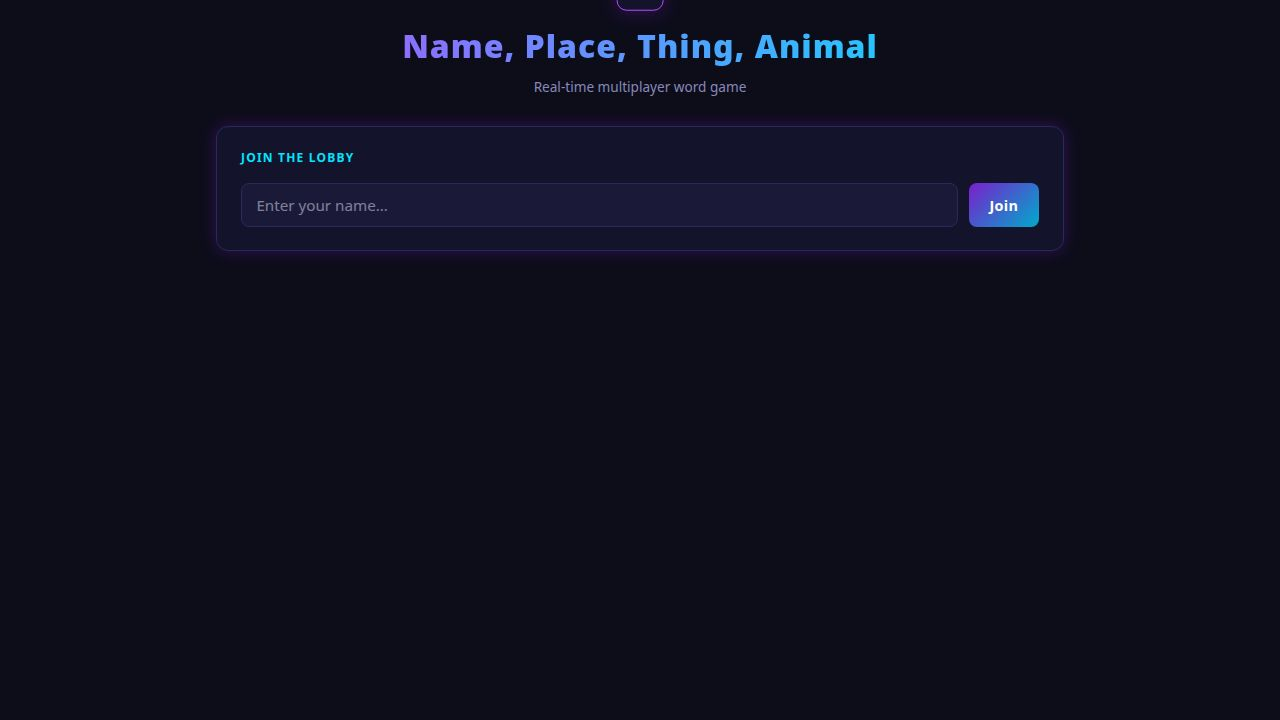
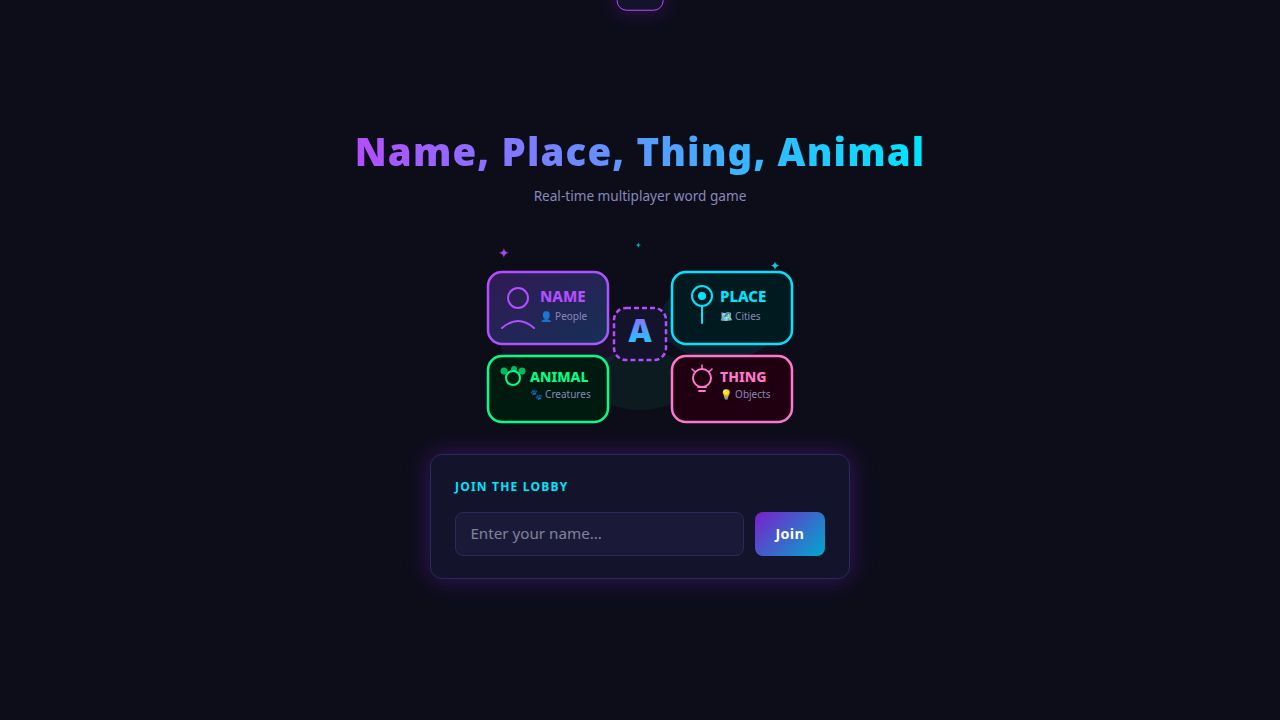
Center game title and join screen with a new cartoon graphic
Restructure the join screen layout to vertically center the title, subtitle, and join card, and integrate a new cartoon SVG illustration.

Replit-Commit-Author: Agent
Replit-Commit-Session-Id: f1d42a7c-d29c-435c-8295-85e177973ce0
Replit-Commit-Checkpoint-Type: full_checkpoint
Replit-Commit-Event-Id: 2e5b79c0-e098-4b18-bdde-9102e4d49beb
Replit-Commit-Screenshot-Url: https://storage.googleapis.com/screenshot-production-us-central1/2193b570-b750-4597-9768-329b22a8e16d/f1d42a7c-d29c-435c-8295-85e177973ce0/uqnpOFI
Replit-Helium-Checkpoint-Created: true

Changed region(s): [[0.1875, 0.0306, 0.8125, 0.825]]

diff --git a/artifacts/game/src/App.tsx b/artifacts/game/src/App.tsx
@@ -292,22 +292,97 @@ export default function App() {
 
       <div className={`notif${notifVisible ? " show" : ""}`}>{notification}</div>
 
-      <div style={{ maxWidth: 880, margin: "0 auto", padding: "0 1rem 3rem" }}>
+      {/* JOIN SCREEN — full-height centred */}
+      {screen === "join" && (
+        <div style={{ minHeight: "100vh", display: "flex", flexDirection: "column", alignItems: "center", justifyContent: "center", padding: "1.5rem 1rem" }}>
 
-        {/* TITLE */}
-        <h1 style={{
-          textAlign: "center", fontSize: "clamp(1.4rem,4vw,2rem)", fontWeight: 900,
-          letterSpacing: "0.03em", padding: "1.2rem 1rem 0.3rem",
-          background: "linear-gradient(90deg,#b44dff,#00e5ff)",
-          WebkitBackgroundClip: "text", WebkitTextFillColor: "transparent", backgroundClip: "text"
-        }}>Name, Place, Thing, Animal</h1>
-        <p style={{ textAlign: "center", color: "var(--text-dim)", fontSize: "0.85rem", marginBottom: "1.2rem" }}>
-          Real-time multiplayer word game
-        </p>
+          {/* Title */}
+          <h1 style={{
+            textAlign: "center", fontSize: "clamp(1.6rem,5vw,2.4rem)", fontWeight: 900,
+            letterSpacing: "0.03em", marginBottom: "0.3rem",
+            background: "linear-gradient(90deg,#b44dff,#00e5ff)",
+            WebkitBackgroundClip: "text", WebkitTextFillColor: "transparent", backgroundClip: "text"
+          }}>Name, Place, Thing, Animal</h1>
+          <p style={{ textAlign: "center", color: "var(--text-dim)", fontSize: "0.85rem", marginBottom: "1.5rem" }}>
+            Real-time multiplayer word game
+          </p>
 
-        {/* JOIN SCREEN */}
-        {screen === "join" && (
-          <div className="card" style={{ boxShadow: "0 0 24px #7a1fcc66", maxWidth: 480, margin: "0 auto 0" }}>
+          {/* Cartoon illustration */}
+          <svg width="320" height="200" viewBox="0 0 320 200" xmlns="http://www.w3.org/2000/svg" style={{ maxWidth: "100%", marginBottom: "1.5rem" }}>
+            {/* Glow blobs */}
+            <ellipse cx="80" cy="110" rx="60" ry="40" fill="#b44dff" opacity="0.08"/>
+            <ellipse cx="240" cy="90" rx="60" ry="40" fill="#00e5ff" opacity="0.08"/>
+            <ellipse cx="160" cy="150" rx="50" ry="30" fill="#00ff88" opacity="0.06"/>
+
+            {/* Stars */}
+            <text x="18" y="28" fontSize="14" fill="#b44dff" opacity="0.9">✦</text>
+            <text x="290" y="40" fontSize="12" fill="#00e5ff" opacity="0.9">✦</text>
+            <text x="8" y="160" fontSize="10" fill="#00ff88" opacity="0.8">★</text>
+            <text x="300" y="170" fontSize="10" fill="#b44dff" opacity="0.8">★</text>
+            <text x="155" y="18" fontSize="8" fill="#00e5ff" opacity="0.7">✦</text>
+            <text x="260" y="185" fontSize="9" fill="#00ff88" opacity="0.7">✦</text>
+
+            {/* Card: NAME — top-left, purple */}
+            <rect x="8" y="42" width="120" height="72" rx="14" fill="#1a1038" stroke="#b44dff" strokeWidth="2.5"/>
+            <rect x="8" y="42" width="120" height="72" rx="14" fill="url(#glow-purple)" opacity="0.15"/>
+            {/* Person icon */}
+            <circle cx="38" cy="68" r="10" fill="none" stroke="#b44dff" strokeWidth="2"/>
+            <path d="M22 98 Q38 84 54 98" fill="none" stroke="#b44dff" strokeWidth="2" strokeLinecap="round"/>
+            {/* Label */}
+            <text x="60" y="72" fontSize="15" fontWeight="800" fill="#b44dff" fontFamily="system-ui">NAME</text>
+            <text x="60" y="90" fontSize="10" fill="#8888bb" fontFamily="system-ui">👤 People</text>
+
+            {/* Card: PLACE — top-right, cyan */}
+            <rect x="192" y="42" width="120" height="72" rx="14" fill="#001a20" stroke="#00e5ff" strokeWidth="2.5"/>
+            {/* Map pin icon */}
+            <circle cx="222" cy="66" r="10" fill="none" stroke="#00e5ff" strokeWidth="2"/>
+            <path d="M222 76 L222 93" stroke="#00e5ff" strokeWidth="2" strokeLinecap="round"/>
+            <circle cx="222" cy="66" r="4" fill="#00e5ff"/>
+            {/* Label */}
+            <text x="240" y="72" fontSize="15" fontWeight="800" fill="#00e5ff" fontFamily="system-ui">PLACE</text>
+            <text x="240" y="90" fontSize="10" fill="#8888bb" fontFamily="system-ui">🗺 Cities</text>
+
+            {/* Card: ANIMAL — bottom-left, green */}
+            <rect x="8" y="126" width="120" height="66" rx="14" fill="#001a10" stroke="#00ff88" strokeWidth="2.5"/>
+            {/* Paw icon */}
+            <circle cx="33" cy="148" r="7" fill="none" stroke="#00ff88" strokeWidth="2"/>
+            <circle cx="24" cy="141" r="3.5" fill="#00ff88" opacity="0.7"/>
+            <circle cx="42" cy="141" r="3.5" fill="#00ff88" opacity="0.7"/>
+            <circle cx="34" cy="139" r="3" fill="#00ff88" opacity="0.7"/>
+            {/* Label */}
+            <text x="50" y="152" fontSize="14" fontWeight="800" fill="#00ff88" fontFamily="system-ui">ANIMAL</text>
+            <text x="50" y="168" fontSize="10" fill="#8888bb" fontFamily="system-ui">🐾 Creatures</text>
+
+            {/* Card: THING — bottom-right, pink */}
+            <rect x="192" y="126" width="120" height="66" rx="14" fill="#200010" stroke="#ff77cc" strokeWidth="2.5"/>
+            {/* Lightbulb icon */}
+            <circle cx="222" cy="148" r="9" fill="none" stroke="#ff77cc" strokeWidth="2"/>
+            <path d="M218 157 L226 157 M219 161 L225 161" stroke="#ff77cc" strokeWidth="1.8" strokeLinecap="round"/>
+            <path d="M222 139 L222 135" stroke="#ff77cc" strokeWidth="1.5" strokeLinecap="round"/>
+            <path d="M215 142 L212 139" stroke="#ff77cc" strokeWidth="1.5" strokeLinecap="round"/>
+            <path d="M229 142 L232 139" stroke="#ff77cc" strokeWidth="1.5" strokeLinecap="round"/>
+            {/* Label */}
+            <text x="240" y="152" fontSize="14" fontWeight="800" fill="#ff77cc" fontFamily="system-ui">THING</text>
+            <text x="240" y="168" fontSize="10" fill="#8888bb" fontFamily="system-ui">💡 Objects</text>
+
+            {/* Centre letter tile */}
+            <rect x="134" y="78" width="52" height="52" rx="12" fill="#13132b" stroke="#b44dff" strokeWidth="2.5" strokeDasharray="5 3"/>
+            <text x="160" y="112" fontSize="32" fontWeight="900" textAnchor="middle" fill="url(#letter-grad)" fontFamily="system-ui">A</text>
+
+            <defs>
+              <linearGradient id="glow-purple" x1="0" y1="0" x2="1" y2="1">
+                <stop offset="0%" stopColor="#b44dff"/>
+                <stop offset="100%" stopColor="#00e5ff"/>
+              </linearGradient>
+              <linearGradient id="letter-grad" x1="0" y1="0" x2="0" y2="1">
+                <stop offset="0%" stopColor="#b44dff"/>
+                <stop offset="100%" stopColor="#00e5ff"/>
+              </linearGradient>
+            </defs>
+          </svg>
+
+          {/* Join card */}
+          <div className="card" style={{ boxShadow: "0 0 24px #7a1fcc66", width: "100%", maxWidth: 420 }}>
             <div className="card-title">Join the Lobby</div>
             <div style={{ display: "flex", gap: "0.7rem" }}>
               <input
@@ -322,6 +397,24 @@ export default function App() {
               <button className="btn-primary" onClick={joinGame}>Join</button>
             </div>
           </div>
+        </div>
+      )}
+
+      <div style={{ maxWidth: 880, margin: "0 auto", padding: "0 1rem 3rem" }}>
+
+        {/* LOBBY TITLE (shown only in lobby) */}
+        {screen === "lobby" && (
+          <>
+          <h1 style={{
+            textAlign: "center", fontSize: "clamp(1.2rem,4vw,1.8rem)", fontWeight: 900,
+            letterSpacing: "0.03em", padding: "1.2rem 1rem 0.3rem",
+            background: "linear-gradient(90deg,#b44dff,#00e5ff)",
+            WebkitBackgroundClip: "text", WebkitTextFillColor: "transparent", backgroundClip: "text"
+          }}>Name, Place, Thing, Animal</h1>
+          <p style={{ textAlign: "center", color: "var(--text-dim)", fontSize: "0.82rem", marginBottom: "1rem" }}>
+            Real-time multiplayer word game
+          </p>
+          </>
         )}
 
         {/* LOBBY */}
